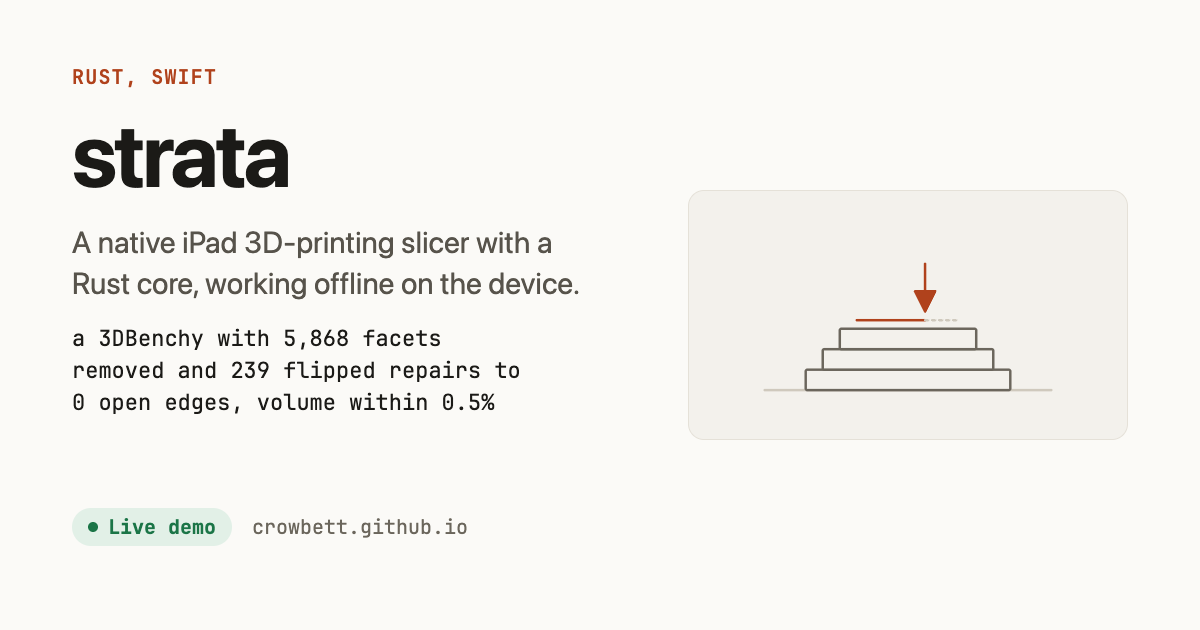
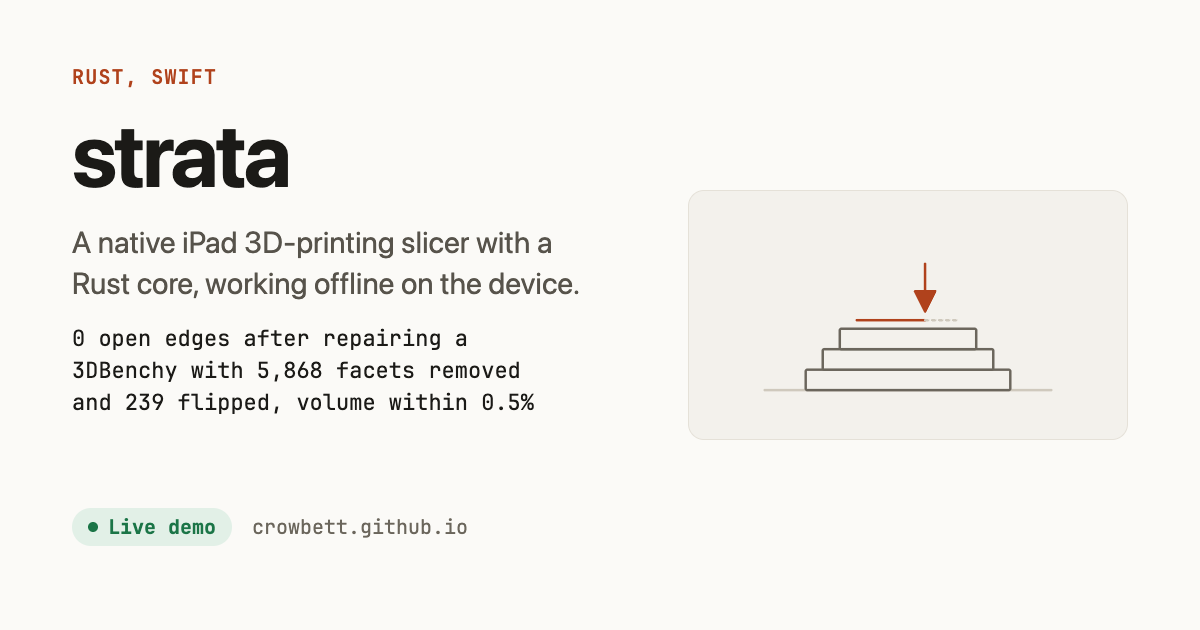
Lead every metric with its number and drop the planned demo box (V8 round 1)

Changed region(s): [[0.0617, 0.5127, 0.4625, 0.6635]]

diff --git a/web/assets/site.css b/web/assets/site.css
@@ -375,10 +375,6 @@ h3 { font-size: 1.125rem; margin: var(--sp-6) 0 var(--sp-2); }
 .demo-head h2 { display: flex; align-items: center; gap: var(--sp-2); margin: 0; font-size: var(--t-small); letter-spacing: 0; }
 .demo-head h2::before { content: ""; width: 8px; height: 8px; border-radius: 50%; background: var(--live); }
 .demo-spec { font-family: var(--mono); font-size: var(--t-label); color: var(--text-3); }
-.demo.planned { background: none; box-shadow: none; border-style: dashed; border-color: var(--line-strong); }
-.demo.planned .demo-head { border-bottom-style: dashed; border-color: var(--line-strong); }
-.demo.planned .demo-head h2::before { box-sizing: border-box; background: none; border: 1.5px solid var(--control-line); }
-.demo.planned .demo-note { font-family: var(--sans); font-size: var(--t-small); color: var(--text-2); }
 .demo-bar { display: flex; flex-wrap: wrap; gap: var(--sp-3) var(--sp-4); align-items: center; }
 .demo-load { display: flex; align-items: center; gap: var(--sp-3); margin-top: var(--sp-4); }
 .demo:has(.demo-load) .demo-note, .demo[data-demo-error] .demo-note { display: none; }
@@ -419,6 +415,8 @@ h3 { font-size: 1.125rem; margin: var(--sp-6) 0 var(--sp-2); }
 
 .foot { display: flex; flex-wrap: wrap; justify-content: space-between; gap: var(--sp-2) var(--sp-5); margin-top: var(--section); padding-block: var(--sp-5) var(--sp-7); border-top: 1px solid var(--line); color: var(--text-3); font-size: var(--t-small); }
 .foot p { margin: 0; }
+body:has(.notfound) { display: flex; flex-direction: column; min-height: 100vh; }
+body:has(.notfound) main { flex: 1 0 auto; }
 
 @media (prefers-reduced-motion: reduce) {
   *, *::before, *::after { transition: none !important; animation: none !important; scroll-behavior: auto !important; }

diff --git a/templates/project.html b/templates/project.html
@@ -38,13 +38,6 @@
       <p class="demo-status" data-demo-status role="status" aria-live="polite"></p>
     </section>
     <script type="module" src="/assets/demo.js"></script>
-    {{else if eq .Demo "planned"}}
-    <section class="demo planned" aria-labelledby="demo-title">
-      <div class="demo-head">
-        <h2 id="demo-title">Demo</h2>
-      </div>
-      <p class="demo-note">A live in-browser demo of this project is being built.</p>
-    </section>
     {{end}}
 
     <div class="body">{{.Body}}</div>

diff --git a/internal/site/content.go b/internal/site/content.go
@@ -21,7 +21,8 @@ import (
 // Front matter is "key: value" lines between "---" fences. Keys:
 // title, tagline, lang, tags (comma list), repo (URL; empty = private source),
 // demo (live | planned | none), order (int; lower first), metric (one measured
-// headline number, quoted from the repo, with its source in metric_source),
+// headline number, quoted from the repo, with its source in metric_source;
+// it leads with the number or a capital so the cards read as one set),
 // demo_try (one line on what a visitor can do in the live demo; live only).
 type Project struct {
 	Slug         string
@@ -123,6 +124,8 @@ func parseProject(slug string, src []byte) (Project, error) {
 		return p, fmt.Errorf("demo_try is required for a live demo and only allowed on one")
 	case p.Metric != "" && p.MetricSource == "":
 		return p, fmt.Errorf("metric needs metric_source: every number on the site cites where it was measured")
+	case p.Metric != "" && !strings.ContainsRune("0123456789~ABCDEFGHIJKLMNOPQRSTUVWXYZ", rune(p.Metric[0])):
+		return p, fmt.Errorf("metric must lead with its number or a capital, got %q", p.Metric)
 	}
 	var html bytes.Buffer
 	if err := goldmark.Convert(body, &html); err != nil {

diff --git a/internal/site/site_test.go b/internal/site/site_test.go
@@ -41,6 +41,7 @@ func TestParseProject(t *testing.T) {
 func TestParseProjectRejects(t *testing.T) {
 	cases := map[string]string{
 		"metric without source": strings.Replace(goodProject, "metric_source: bench.md\n", "", 1),
+		"lowercase metric":      strings.Replace(goodProject, "metric: 5 ops/s", "metric: saturates at 5 ops/s", 1),
 		"bad demo state":        strings.Replace(goodProject, "demo: planned", "demo: soon", 1),
 		"live without demo_try": strings.Replace(goodProject, "demo: planned", "demo: live", 1),
 		"demo_try not live":     strings.Replace(goodProject, "demo: planned", "demo: planned\ndemo_try: Try it.", 1),

diff --git a/content/projects/jobrun.md b/content/projects/jobrun.md
@@ -7,7 +7,7 @@ repo: https://github.com/crowbett/jobrun
 demo: live
 demo_try: Type a cron expression and a time zone to see the next ten runs, or set a retry policy and see the delay after each failed attempt.
 order: 6
-metric: saturates at ~1,030 jobs/s completed with the default 16 workers
+metric: ~1,030 jobs/s completed at saturation with the default 16 workers
 metric_source: README results, one Windows 11 box, Postgres 17, medians of 3 runs
 ---
 `SELECT ... FOR UPDATE SKIP LOCKED` plus `LISTEN/NOTIFY` does the dispatching. On top: fenced leases,

diff --git a/content/projects/strata.md b/content/projects/strata.md
@@ -7,7 +7,7 @@ repo:
 demo: live
 demo_try: Slice a calibration model or your own STL, OBJ or 3MF, then scrub through its layers' toolpaths.
 order: 8
-metric: a 3DBenchy with 5,868 facets removed and 239 flipped repairs to 0 open edges, volume within 0.5%
+metric: 0 open edges after repairing a 3DBenchy with 5,868 facets removed and 239 flipped, volume within 0.5%
 metric_source: docs/features.md, mesh repair (measured)
 ---
 strata slices STL models into G-code on the iPad itself: perimeters, infill, a Metal build-plate view,

diff --git a/content/projects/keel.md b/content/projects/keel.md
@@ -7,7 +7,7 @@ repo:
 demo: live
 demo_try: Run a seed, run it again for the same digest bit for bit, then try another seed's fault schedule.
 order: 2
-metric: storage, Raft and multi-Raft milestones each gated on 10,000 randomized fault seeds
+metric: 10,000 randomized fault seeds gate each storage, Raft and multi-Raft milestone
 metric_source: README milestone table
 ---
 Every line of keel's data plane runs unmodified inside a deterministic simulator that owns time,
